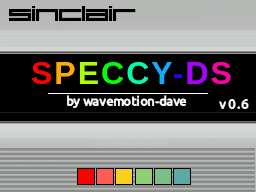
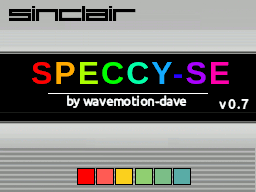
Rebranding to Speccy-SE

Changed region(s): [[0.7188, 0.3125, 0.9062, 0.4375], [0.9375, 0.5, 1.0, 0.5625]]

diff --git a/arm9/source/SpeccyUtils.c b/arm9/source/SpeccyUtils.c
@@ -6,7 +6,7 @@
 // royalty provided this copyright notice is used and wavemotion-dave and Marat
 // Fayzullin (Z80 core) are thanked profusely.
 //
-// The SpeccyDS emulator is offered as-is, without any warranty. Please see readme.md
+// The SpeccySE emulator is offered as-is, without any warranty. Please see readme.md
 // =====================================================================================
 #include <nds.h>
 
@@ -17,7 +17,7 @@
 #include <unistd.h>
 #include <maxmod9.h>
 
-#include "SpeccyDS.h"
+#include "SpeccySE.h"
 #include "SpeccyUtils.h"
 #include "topscreen.h"
 #include "mainmenu.h"
@@ -229,7 +229,7 @@ u8 showMessage(char *szCh1, char *szCh2)
   return uRet;
 }
 
-void SpeccyDSModeNormal(void) {
+void SpeccySEModeNormal(void) {
   REG_BG3CNT = BG_BMP8_256x256;
   REG_BG3PA = (1<<8);
   REG_BG3PB = 0;
@@ -242,11 +242,11 @@ void SpeccyDSModeNormal(void) {
 //*****************************************************************************
 // Put the top screen in refocused bitmap mode
 //*****************************************************************************
-void SpeccyDSInitScreenUp(void) {
+void SpeccySEInitScreenUp(void) {
   videoSetMode(MODE_5_2D | DISPLAY_BG3_ACTIVE);
   vramSetBankA(VRAM_A_MAIN_BG_0x06000000);
   vramSetBankB(VRAM_B_MAIN_SPRITE);
-  SpeccyDSModeNormal();
+  SpeccySEModeNormal();
 }
 
 /*********************************************************************************
@@ -629,7 +629,7 @@ u8 speccyDSLoadFile(u8 bTapeOnly)
 
 
 // ---------------------------------------------------------------------------
-// Write out the SpeccyDS.DAT configuration file to capture the settings for
+// Write out the SpeccySE.DAT configuration file to capture the settings for
 // each game.  This one file contains global settings ~1000 game settings.
 // ---------------------------------------------------------------------------
 void SaveConfig(bool bShow)
@@ -678,7 +678,7 @@ void SaveConfig(bool bShow)
     {
         mkdir("/data", 0777);   // Doesn't exist - make it...
     }
-    fp = fopen("/data/SpeccyDS.DAT", "wb+");
+    fp = fopen("/data/SpeccySE.DAT", "wb+");
     if (fp != NULL)
     {
         fwrite(&myGlobalConfig, sizeof(myGlobalConfig), 1, fp); // Write the global config
@@ -812,7 +812,7 @@ void SetDefaultGameConfig(void)
 
 // ----------------------------------------------------------
 // Load configuration into memory where we can use it.
-// The configuration is stored in SpeccyDS.DAT
+// The configuration is stored in SpeccySE.DAT
 // ----------------------------------------------------------
 void LoadConfig(void)
 {
@@ -822,9 +822,9 @@ void LoadConfig(void)
     // -----------------------------------------------------------------
     SetDefaultGameConfig();
 
-    if (ReadFileCarefully("/data/SpeccyDS.DAT", (u8*)&myGlobalConfig, sizeof(myGlobalConfig), 0))  // Read Global Config
+    if (ReadFileCarefully("/data/SpeccySE.DAT", (u8*)&myGlobalConfig, sizeof(myGlobalConfig), 0))  // Read Global Config
     {
-        ReadFileCarefully("/data/SpeccyDS.DAT", (u8*)&AllConfigs, sizeof(AllConfigs), sizeof(myGlobalConfig)); // Read the full game array of configs
+        ReadFileCarefully("/data/SpeccySE.DAT", (u8*)&AllConfigs, sizeof(AllConfigs), sizeof(myGlobalConfig)); // Read the full game array of configs
 
         if (myGlobalConfig.config_ver != CONFIG_VER)
         {
@@ -934,7 +934,7 @@ u8 display_options_list(bool bFullDisplay)
 //*****************************************************************************
 // Change Game Options for the current game
 //*****************************************************************************
-void SpeccyDSGameOptions(bool bIsGlobal)
+void SpeccySEGameOptions(bool bIsGlobal)
 {
     u8 optionHighlighted;
     u8 idx;
@@ -1073,7 +1073,7 @@ void SwapKeymap(void)
 // Allow the user to change the key map for the current game and give them
 // the option of writing that keymap out to a configuration file for the game.
 // ------------------------------------------------------------------------------
-void SpeccyDSChangeKeymap(void)
+void SpeccySEChangeKeymap(void)
 {
   u32 ucHaut=0x00, ucBas=0x00,ucL=0x00,ucR=0x00,ucY= 6, bOK=0, bIndTch=0;
 
@@ -1440,7 +1440,7 @@ void speccyDSChangeOptions(void)
           case 9 :     // REDEFINE KEYS
             if (ucGameChoice != -1)
             {
-                SpeccyDSChangeKeymap();
+                SpeccySEChangeKeymap();
                 BottomScreenOptions();
                 dispInfoOptions(ucY);
                 DisplayFileName();
@@ -1453,7 +1453,7 @@ void speccyDSChangeOptions(void)
           case 11 :     // GAME OPTIONS
             if (ucGameChoice != -1)
             {
-                SpeccyDSGameOptions(false);
+                SpeccySEGameOptions(false);
                 BottomScreenOptions();
                 dispInfoOptions(ucY);
                 DisplayFileName();
@@ -1465,7 +1465,7 @@ void speccyDSChangeOptions(void)
             break;
 
           case 13 :     // GLOBAL OPTIONS
-            SpeccyDSGameOptions(true);
+            SpeccySEGameOptions(true);
             BottomScreenOptions();
             dispInfoOptions(ucY);
             DisplayFileName();
@@ -1788,7 +1788,7 @@ void PatchZ80(register Z80 *r)
 }
 
 // -----------------------------------------------------------------
-// Trap and report illegal opcodes to the SpeccyDS debugger...
+// Trap and report illegal opcodes to the SpeccySE debugger...
 // -----------------------------------------------------------------
 void Trap_Bad_Ops(char *prefix, byte I, word W)
 {

diff --git a/arm9/source/highscore.c b/arm9/source/highscore.c
@@ -6,14 +6,14 @@
 // royalty provided this copyright notice is used and wavemotion-dave (Phoenix-Edition),
 // Alekmaul (original port) and Marat Fayzullin (ColEM core) are thanked profusely.
 //
-// The SpeccyDS emulator is offered as-is, without any warranty. Please see readme.md
+// The SpeccySE emulator is offered as-is, without any warranty. Please see readme.md
 // =====================================================================================
 #include <nds.h>
 #include <stdio.h>
 #include <fat.h>
 #include <dirent.h>
 #include <unistd.h>
-#include "SpeccyDS.h"
+#include "SpeccySE.h"
 #include "SpeccyUtils.h"
 #include "printf.h"
 
@@ -111,7 +111,7 @@ void highscore_init(void)
     // ------------------------------------------------------
     // See if the high score file exists... if so, read it!
     // ------------------------------------------------------
-    if (ReadFileCarefully("/data/SpeccyDS.hi", (u8*)&highscores, sizeof(highscores), 0))
+    if (ReadFileCarefully("/data/SpeccySE.hi", (u8*)&highscores, sizeof(highscores), 0))
     {
         // --------------------------------------------
         // If the high score version is wrong or if 
@@ -198,7 +198,7 @@ void highscore_save(void)
     // -------------------------------------------------------
     // Open file in binary mode... overwrite if it exists...
     // -------------------------------------------------------
-    fp = fopen("/data/SpeccyDS.hi", "wb+");
+    fp = fopen("/data/SpeccySE.hi", "wb+");
     if (fp != NULL)
     {
         // -----------------------------------------

diff --git a/arm9/source/saveload.c b/arm9/source/saveload.c
@@ -6,7 +6,7 @@
 // royalty provided this copyright notice is used and wavemotion-dave (Phoenix-Edition),
 // Alekmaul (original port) and Marat Fayzullin (ColEM core) are thanked profusely.
 //
-// The SpeccyDS emulator is offered as-is, without any warranty. Please see readme.md
+// The SpeccySE emulator is offered as-is, without any warranty. Please see readme.md
 // =====================================================================================
 #include <nds.h>
 
@@ -17,7 +17,7 @@
 #include <fat.h>
 #include <dirent.h>
 
-#include "SpeccyDS.h"
+#include "SpeccySE.h"
 #include "CRC32.h"
 #include "cpu/z80/Z80_interface.h"
 #include "SpeccyUtils.h"

diff --git a/arm9/source/tapeload.c b/arm9/source/tapeload.c
@@ -6,7 +6,7 @@
 // royalty provided this copyright notice is used and wavemotion-dave and Marat
 // Fayzullin (Z80 core) are thanked profusely.
 //
-// The SpeccyDS emulator is offered as-is, without any warranty. Please see readme.md
+// The SpeccySE emulator is offered as-is, without any warranty. Please see readme.md
 // =====================================================================================
 #include <nds.h>
 
@@ -18,7 +18,7 @@
 #include <ctype.h>
 #include <dirent.h>
 
-#include "SpeccyDS.h"
+#include "SpeccySE.h"
 #include "CRC32.h"
 #include "cpu/z80/Z80_interface.h"
 #include "SpeccyUtils.h"

diff --git a/arm9/source/spectrum.c b/arm9/source/spectrum.c
@@ -6,7 +6,7 @@
 // royalty provided this copyright notice is used and wavemotion-dave and Marat 
 // Fayzullin (Z80 core) are thanked profusely.
 //
-// The SpeccyDS emulator is offered as-is, without any warranty. Please see readme.md
+// The SpeccySE emulator is offered as-is, without any warranty. Please see readme.md
 // =====================================================================================
 #include <nds.h>
 
@@ -17,7 +17,7 @@
 #include <fat.h>
 #include <dirent.h>
 
-#include "SpeccyDS.h"
+#include "SpeccySE.h"
 #include "CRC32.h"
 #include "cpu/z80/Z80_interface.h"
 #include "SpeccyUtils.h"

diff --git a/arm9/source/SpeccyUtils.h b/arm9/source/SpeccyUtils.h
@@ -6,12 +6,12 @@
 // royalty provided this copyright notice is used and wavemotion-dave and Marat 
 // Fayzullin (ColEM core) are thanked profusely.
 //
-// The SpeccyDS emulator is offered as-is, without any warranty. Please see readme.md
+// The SpeccySE emulator is offered as-is, without any warranty. Please see readme.md
 // =====================================================================================
 #ifndef _SPECCY_UTILS_H_
 #define _SPECCY_UTILS_H_
 #include <nds.h>
-#include "SpeccyDS.h"
+#include "SpeccySE.h"
 #include "cpu/z80/Z80_interface.h"
 #include "cpu/ay38910/AY38910.h"
 

diff --git a/arm9/source/screenshot.c b/arm9/source/screenshot.c
@@ -6,7 +6,7 @@
 // royalty provided this copyright notice is used and wavemotion-dave and 
 // Marat Fayzullin (ColEM core) are thanked profusely.
 //
-// The SpeccyDS emulator is offered as-is, without any warranty. Please see readme.md
+// The SpeccySE emulator is offered as-is, without any warranty. Please see readme.md
 // =====================================================================================
 
 // Borrowed from Godemode9i from Rocket Robz

diff --git a/arm9/source/CRC32.c b/arm9/source/CRC32.c
@@ -6,7 +6,7 @@
 // royalty provided this copyright notice is used and wavemotion-dave and Marat 
 // Fayzullin (ColEM core) are thanked profusely.
 //
-// The SpeccyDS emulator is offered as-is, without any warranty. Please see readme.md
+// The SpeccySE emulator is offered as-is, without any warranty. Please see readme.md
 // =====================================================================================
 #include <nds.h>
 #include <stdio.h>

diff --git a/arm9/source/highscore.h b/arm9/source/highscore.h
@@ -6,7 +6,7 @@
 // royalty provided this copyright notice is used and wavemotion-dave (Phoenix-Edition),
 // Alekmaul (original port) and Marat Fayzullin (ColEM core) are thanked profusely.
 //
-// The SpeccyDS emulator is offered as-is, without any warranty.
+// The SpeccySE emulator is offered as-is, without any warranty.
 // =====================================================================================
 
 #ifndef __HIGHSCORE_H

diff --git a/arm9/source/CRC32.h b/arm9/source/CRC32.h
@@ -6,7 +6,7 @@
 // royalty provided this copyright notice is used and wavemotion-dave (Phoenix-Edition),
 // Alekmaul (original port) and Marat Fayzullin (ColEM core) are thanked profusely.
 //
-// The SpeccyDS emulator is offered as-is, without any warranty.
+// The SpeccySE emulator is offered as-is, without any warranty.
 // =====================================================================================
 
 

diff --git a/arm9/source/cpu/z80/cz80/CodesXCB.h b/arm9/source/cpu/z80/cz80/CodesXCB.h
@@ -1,5 +1,5 @@
 /******************************************************************************
-*  SpeccyDS Z80 CPU 
+*  SpeccySE Z80 CPU 
 *
 * Note: Most of this file is from the ColEm emulator core by Marat Fayzullin
 *       but heavily modified for specific NDS use. If you want to use this

diff --git a/arm9/source/cpu/z80/cz80/CodesXX.h b/arm9/source/cpu/z80/cz80/CodesXX.h
@@ -1,5 +1,5 @@
 /******************************************************************************
-*  SpeccyDS Z80 CPU 
+*  SpeccySE Z80 CPU 
 *
 * Note: Most of this file is from the ColEm emulator core by Marat Fayzullin
 *       but heavily modified for specific NDS use. If you want to use this
